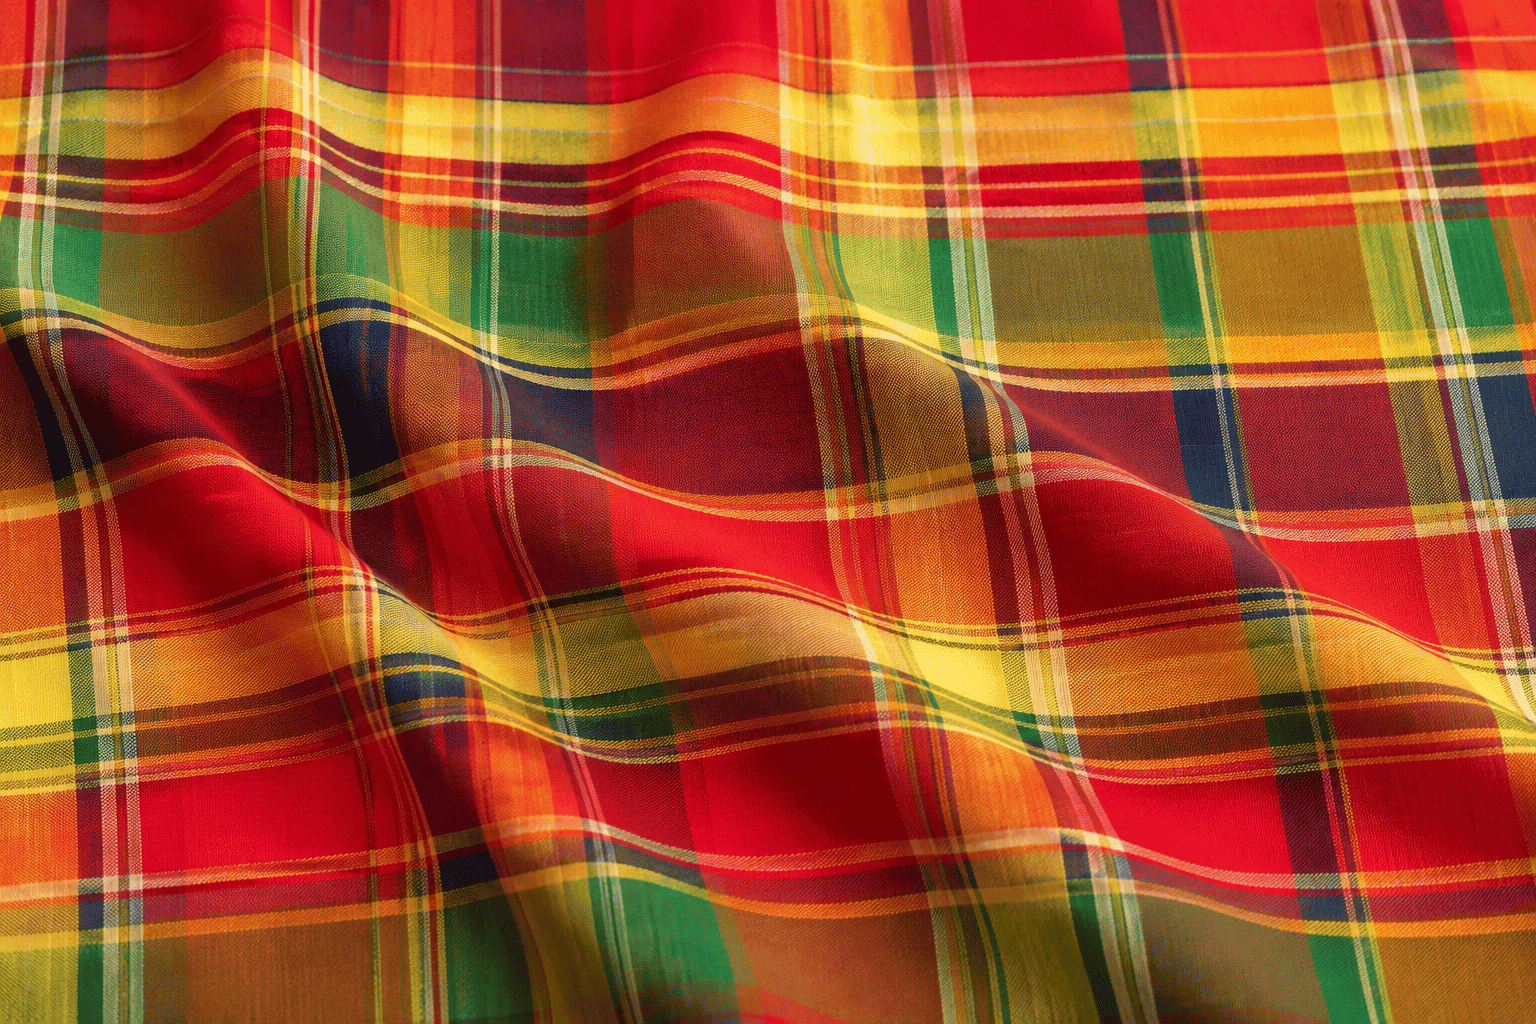
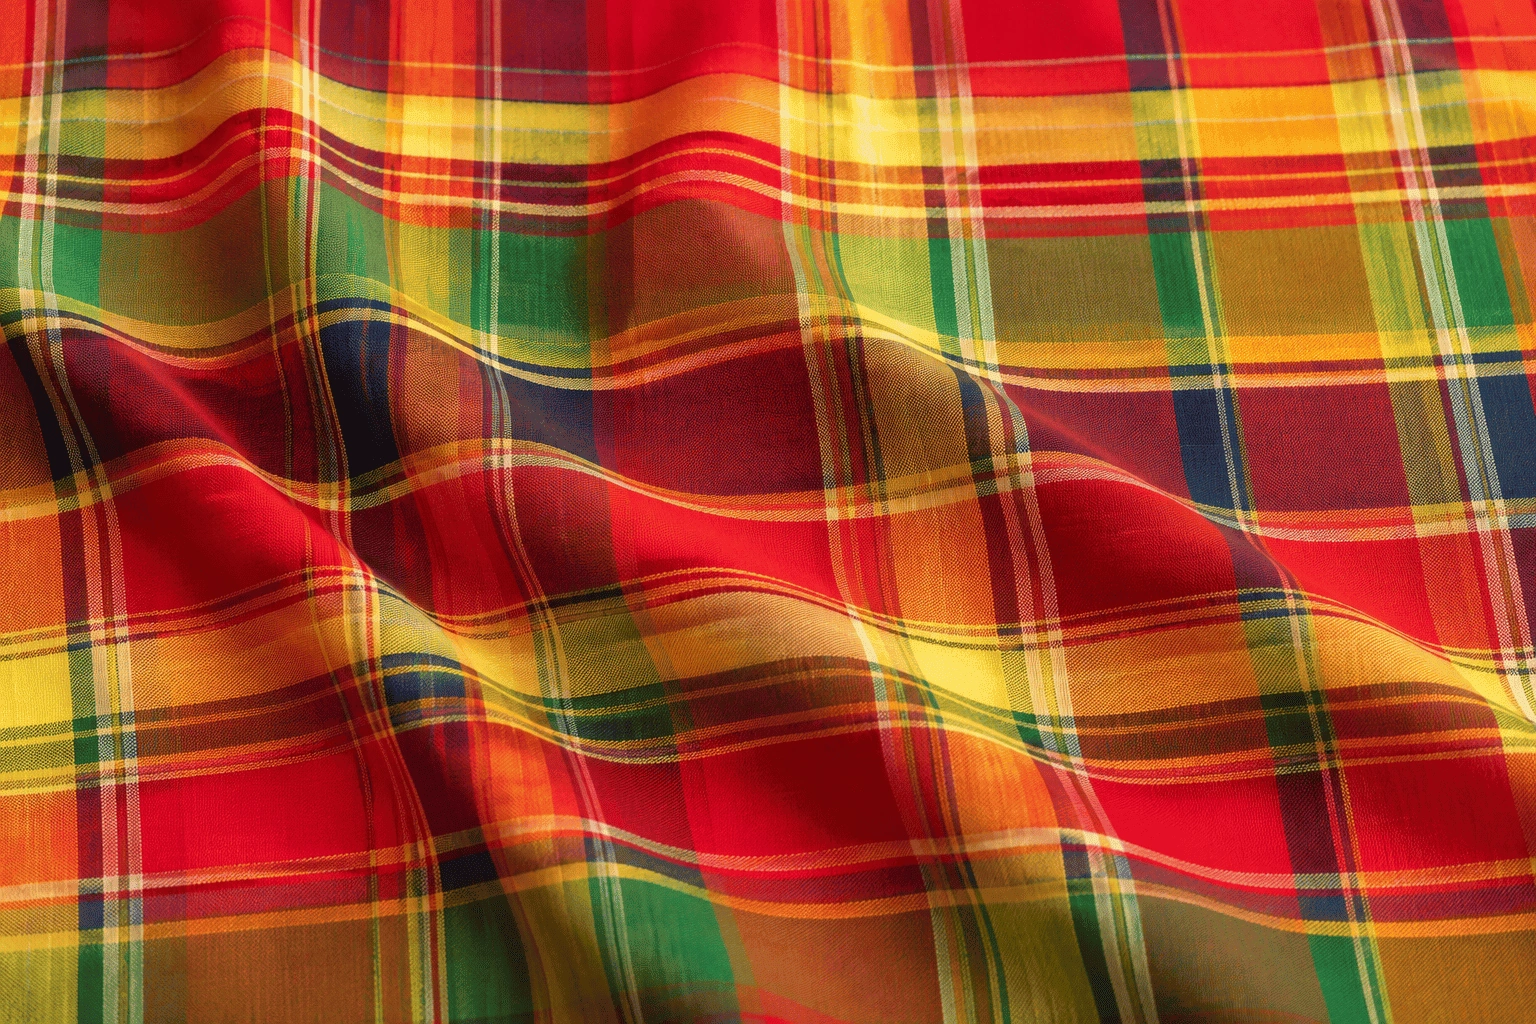
correction

diff --git a/client/src/pages/HomePage.css b/client/src/pages/HomePage.css
@@ -7,30 +7,42 @@
   padding-bottom: 2rem;
 }
 
-/* Hero — image via style inline dans HomePage.jsx */
+/* Hero — hauteur = texte + padding ; image en calque de fond */
 .home__hero {
   position: relative;
   text-align: center;
   padding: 3.5rem 1.5rem;
   background-color: var(--tc-background-alt);
-  background-size: cover;
-  background-position: center;
-  background-repeat: no-repeat;
   border-bottom: 1px solid var(--tc-border);
   overflow: hidden;
 }
 
-.home__hero::before {
-  content: "";
+/* Calque décoratif : ne participe pas à la hauteur du hero */
+.home__hero-media {
   position: absolute;
   inset: 0;
+  display: grid;
+}
+
+.home__hero-img,
+.home__hero-overlay {
+  grid-area: 1 / 1;
+}
+
+.home__hero-img {
+  width: 100%;
+  height: 100%;
+  object-fit: cover;
+  object-position: center;
+  display: block;
+}
+
+.home__hero-overlay {
   background-color: rgba(0, 0, 0, 0.45);
-  z-index: 0;
 }
 
 .home__hero-content {
   position: relative;
-  z-index: 1;
 }
 
 .home__hero h1 {

diff --git a/client/src/pages/HomePage.jsx b/client/src/pages/HomePage.jsx
@@ -42,10 +42,20 @@ function HomePage() {
 
   return (
     <main className="home">
-      <section
-        className="home__hero"
-        style={{ backgroundImage: "url(" + heroBanner + ")" }}
-      >
+      <section className="home__hero">
+        <div className="home__hero-media" aria-hidden="true">
+          <img
+            className="home__hero-img"
+            src={heroBanner}
+            alt=""
+            width={1536}
+            height={1024}
+            fetchPriority="high"
+            loading="eager"
+            decoding="async"
+          />
+          <div className="home__hero-overlay" />
+        </div>
         <div className="home__hero-content">
           <h1>Cook'île & Co</h1>
           <p className="home__hero-accroche">"An Nou Ay !"</p>
